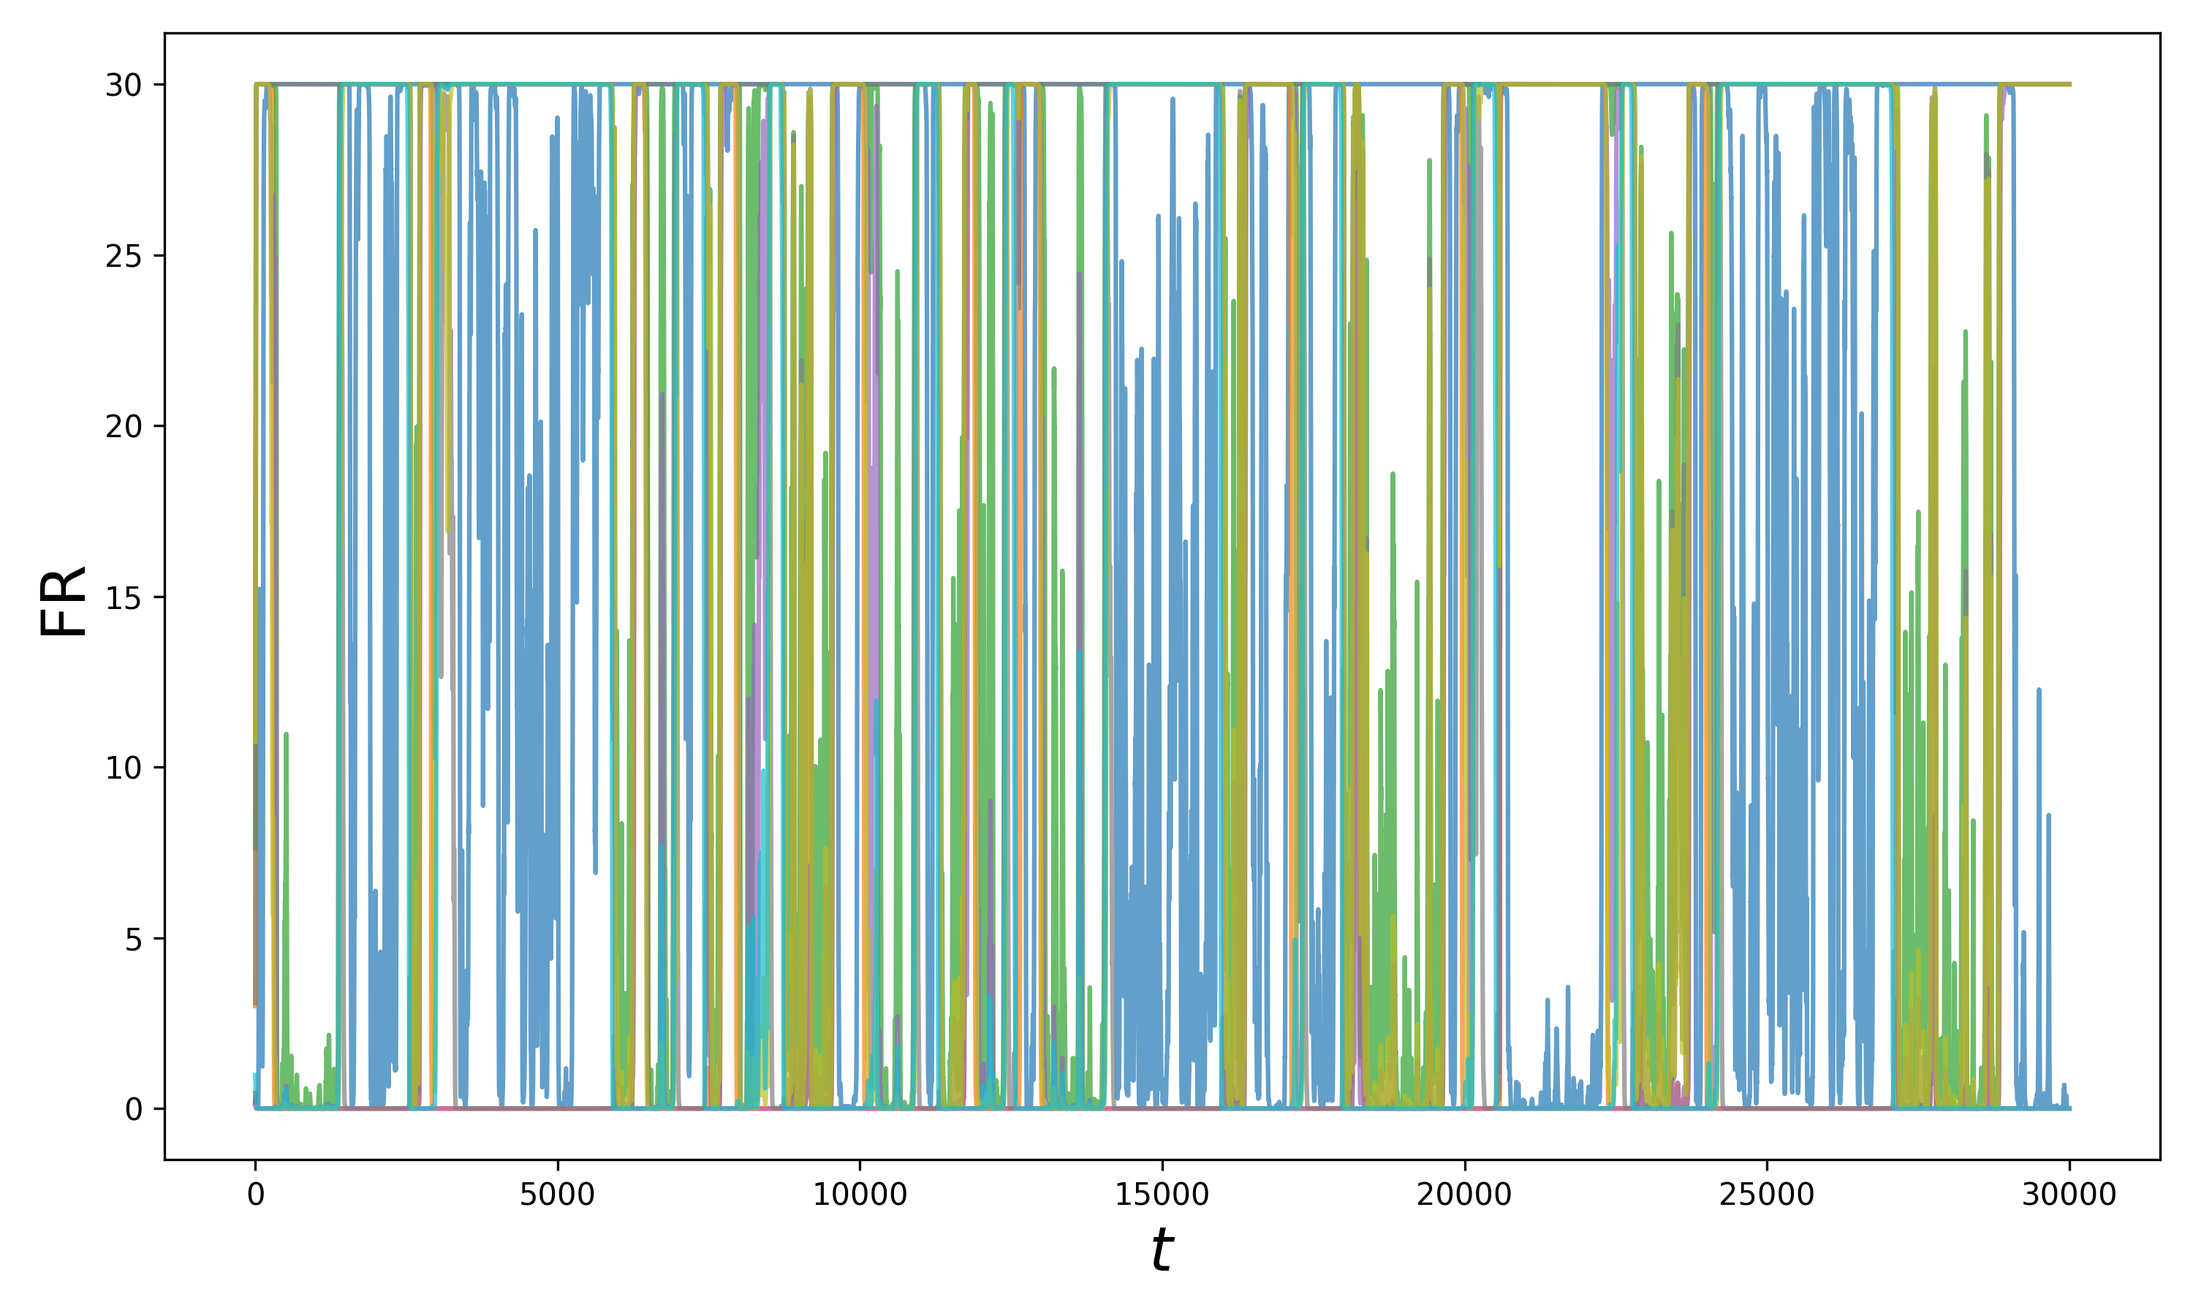
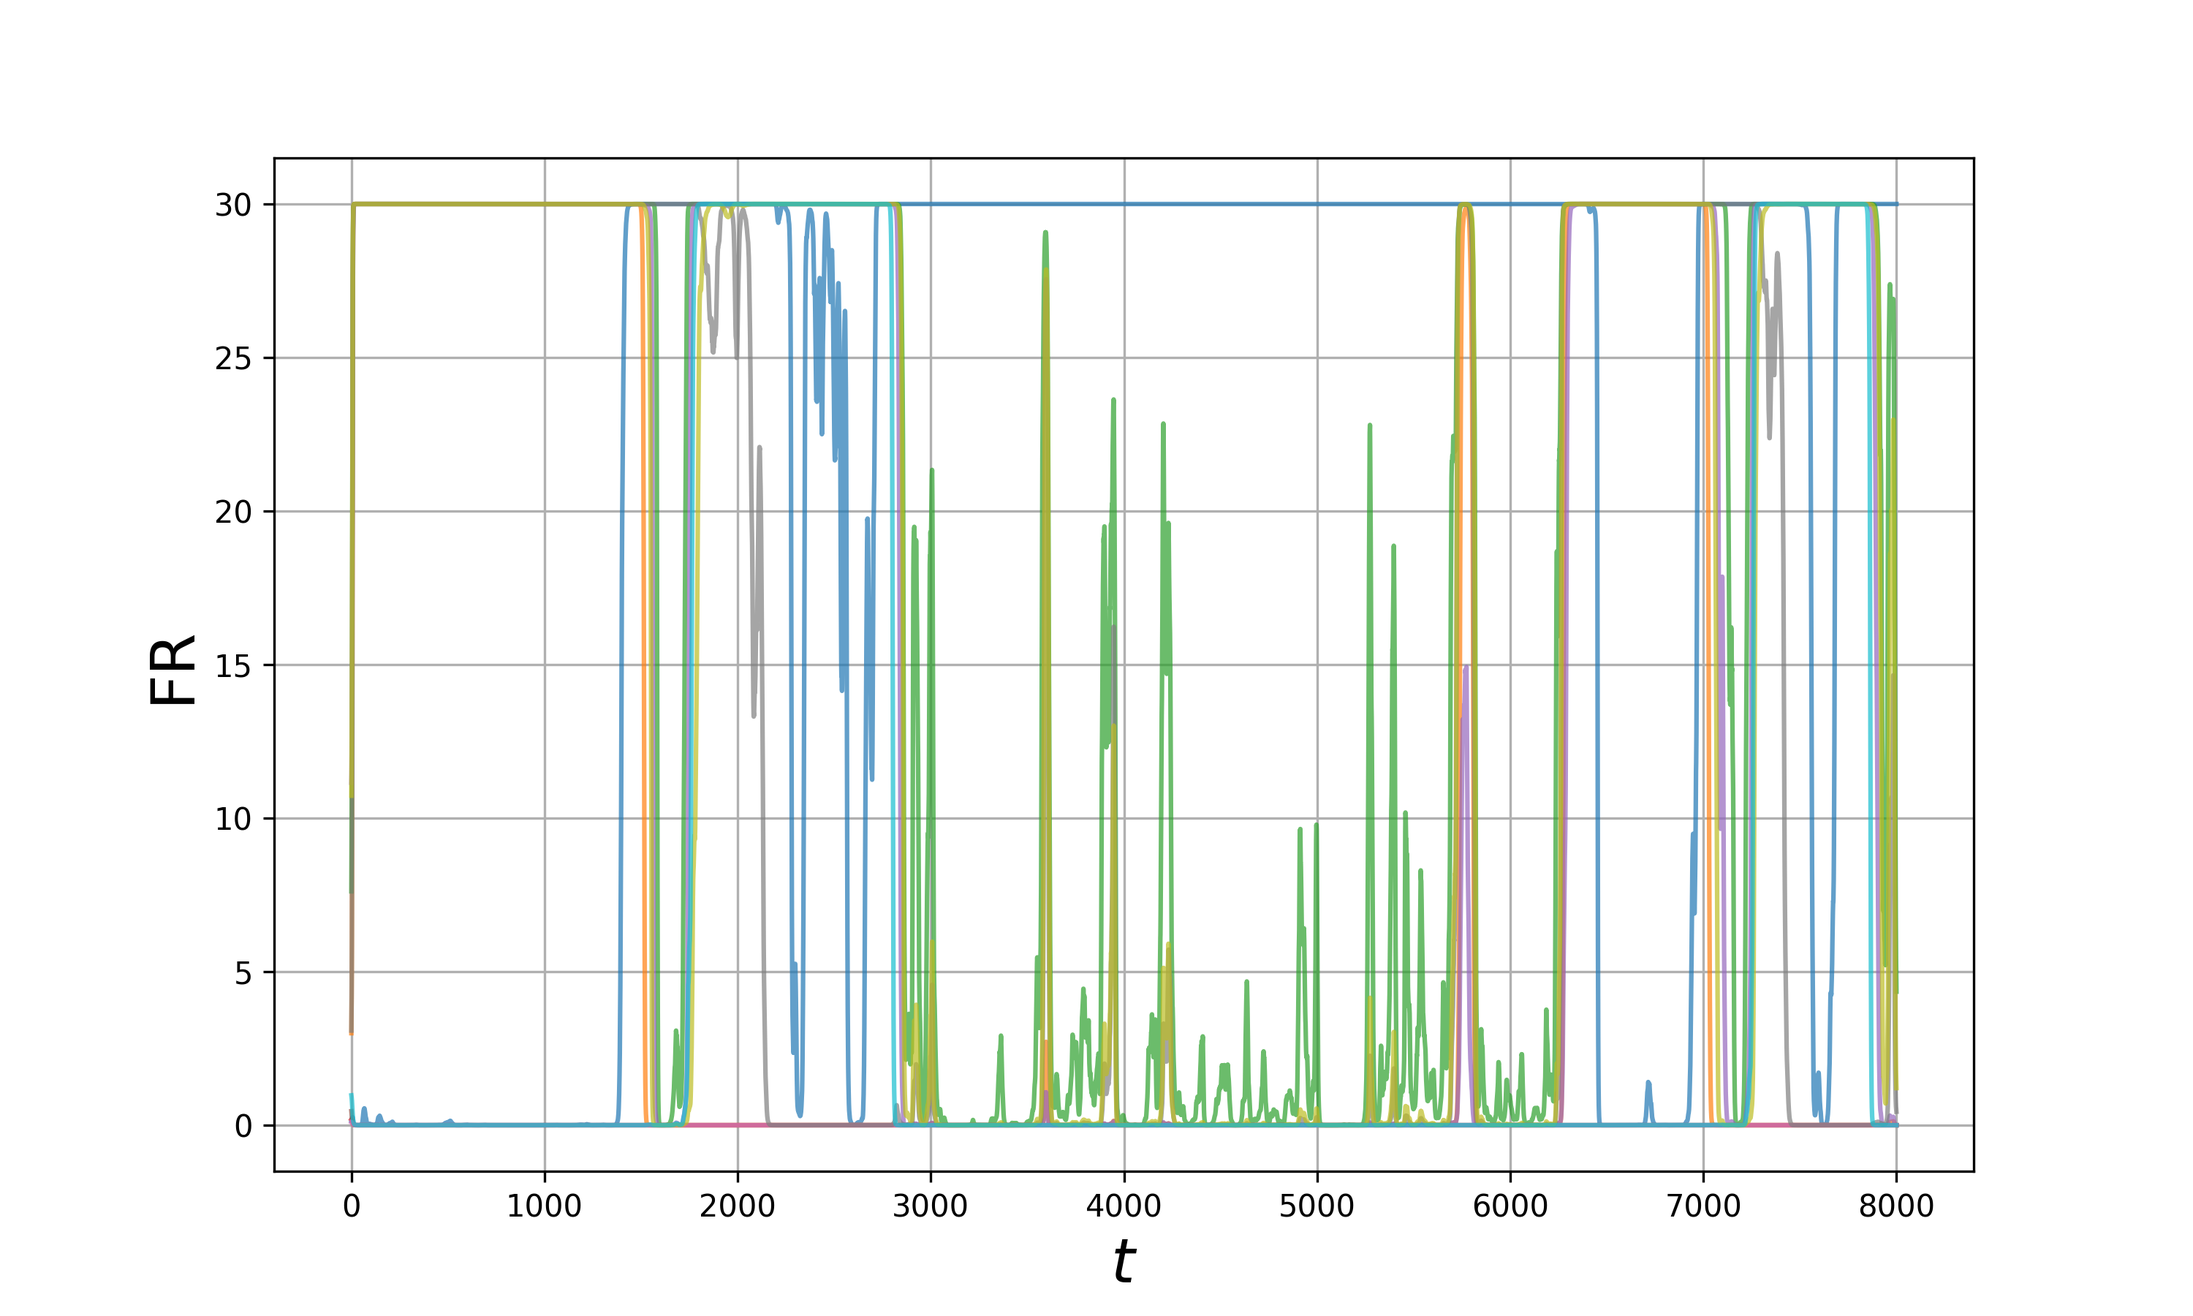
plots

diff --git a/src/simulation.py b/src/simulation.py
@@ -68,6 +68,7 @@ def simulation():
     plot_heatmap,
     single_dir_name,
     verbose,
+    ou_threshold,
 
     # Seed for reproducibility
     seed
@@ -464,154 +465,145 @@ def simulation():
 
     # Create complete 2x2 figure AND individual plots
     logger.info(f"\nCreating dynamics figure and individual plots...")
-    
-    # Create 2x2 subplot figure
-    fig, axs = plt.subplots(2, 2, figsize=(15, 10))
-    
-    # 1. Neural Currents (top-left)
-    n_plot = min(n_display, N)
-    ax = axs[0, 0]
+
+    figs = {}
+    titles = ['neural_currents', 'firing_rates', 'ou_process', 'pattern_overlaps']
+
+    # =====================================
+    # 1. Neural Currents
+    # =====================================
+    logger.info("Plotting neural currents...")
+    n_plot = min(n_display, u.shape[1])
+    fig, ax = plt.subplots(figsize=(10, 6))
     for i in range(n_plot):
-        ax.plot(t, u[:, i], alpha=0.7, label=f'u_{i+1}')
-    ax.set_xlabel('$t$', fontsize = 20)
-    ax.set_ylabel('$u_i$', fontsize = 20)
-    # ax.set_title(f'Neural Currents $u_i$ (first {n_plot} neurons)')
+        ax.plot(t, u[:, i], alpha=0.7, label=f'$u_{{{i+1}}}$')
+    ax.set_xlabel('$t$', fontsize=20)
+    ax.set_ylabel('$u_i$', fontsize=20)
     ax.grid(True)
     if n_plot <= 5:
-        ax.legend()
+        ax.legend(fontsize=16)
+    figs[titles[0]] = (fig, ax)
+    path = os.path.join(output_dir, f"{titles[0]}.png")
+    fig.savefig(path, dpi=300)
+    plt.close(fig)
+    logger.info(f"Saved {titles[0]} → {path}")
 
-    # 2. Firing Rates (top-right)
-    ax = axs[0, 1]
+    # =====================================
+    # 2. Firing Rates
+    # =====================================
+    logger.info("Plotting firing rates...")
+    fig, ax = plt.subplots(figsize=(10, 6))
     for i in range(n_plot):
-        ax.plot(t, phi_u[:, i], alpha=0.7, label=f'φ(u_{i+1})')
-    ax.set_xlabel('$t$', fontsize = 20)
-    ax.set_ylabel('FR', fontsize = 20)
-    # ax.set_title(f'Firing Rates φ($u_i$) (first {n_plot} neurons)')
+        ax.plot(t, phi_u[:, i], alpha=0.7, label=f'$\\phi(u_{{{i+1}}})$')
+    ax.set_xlabel('$t$', fontsize=20)
+    ax.set_ylabel('FR', fontsize=20)
     ax.grid(True)
     if n_plot <= 5:
-        ax.legend()
+        ax.legend(fontsize=16)
+    figs[titles[1]] = (fig, ax)
+    path = os.path.join(output_dir, f"{titles[1]}.png")
+    fig.savefig(path, dpi=300)
+    plt.close(fig)
+    logger.info(f"Saved {titles[1]} → {path}")
 
-    # 3. OU Process (bottom-right)
-    ax = axs[1, 0]
+    # =====================================
+    # 3. OU Process
+    # =====================================
+    logger.info("Plotting OU process...")
+    fig, ax = plt.subplots(figsize=(10, 6))
     try:
         if zeta_array.size == 1:
-            # Constant zeta case
             zeta_val = float(zeta_array.item())
             ax.axhline(y=zeta_val, color='r', linestyle='-', linewidth=2)
             ax.set_ylim([zeta_val - 0.1, zeta_val + 0.1])
-            ax.set_title(f'Control Signal ζ(t) = {zeta_val:.2f} (constant)')
+            legend_label = f'$\\zeta(t)={zeta_val:.2f}$ (constant)'
         else:
-            # Time-varying zeta case with OU parameters in legend
             if use_ou and ou_params is not None:
-                # Include OU parameters in legend
                 tau_zeta_val = ou_params.get('tau_zeta', tau_zeta)
                 zeta_bar_val = ou_params.get('zeta_bar', zeta_bar)
                 sigma_zeta_val = ou_params.get('sigma_zeta', sigma_zeta)
                 legend_label = f'$τ_ζ$={tau_zeta_val:.2f}, $\\bar{{ζ}}$={zeta_bar_val:.2f}, $σ_ζ$={sigma_zeta_val:.2f}'
-                # set up an array with spikes of the OU process over a threshold (2.0)
-                spikes = np.where(zeta_array > 2.0)[0]
-                # ax.set_title('Ornstein-Uhlenbeck Control Signal ζ(t)')
             else:
-                legend_label = 'ζ(t)'
-                # ax.set_title('Control Signal ζ(t)')
-            # plot a line at 2
-            ax.axhline(y=2.0, color='gray', alpha=0.5)
+                legend_label = '$\\zeta(t)$'
             ax.plot(t, zeta_array, color='k', linewidth=1.5, label=legend_label)
-            ax.legend(fontsize = 18)
-
-        ax.set_xlabel('$t$', fontsize = 20)
-        ax.set_ylabel('$\\zeta(t)$', fontsize = 20)
+            ax.legend(fontsize=16)
+        ax.set_xlabel('$t$', fontsize=20)
+        ax.set_ylabel('$\\zeta(t)$', fontsize=20)
         ax.grid(True)
+        figs[titles[2]] = (fig, ax)
+        path = os.path.join(output_dir, f"{titles[2]}.png")
+        fig.savefig(path, dpi=300)
+        plt.close(fig)
+        logger.info(f"Saved {titles[2]} → {path}")
     except Exception as e:
-        logger.error(f"Warning: Could not create ζ(t) plot - {e}")
-        ax.text(0.5, 0.5, f'OU Process Error: {e}', ha='center', va='center', transform=ax.transAxes)
-        ax.set_title('OU Process')
-    
-    # 4. Pattern Overlaps (bottom-left)
-    ax = axs[1, 1]
-    # plot spikes if OU process had spikes
-    if spikes.size > 0:
-        for spike_time in t[spikes]:
-            ax.axvline(x=spike_time, color='gray', linestyle='--', alpha=0.3)
-    # plot a line at 0.8
-    ax.axhline(y=0.8, color='gray', alpha=0.5)
-    if p > 0 and overlaps is not None:
+        logger.error(f"OU plot error: {e}")
+
+    # =====================================
+    # 4. Pattern Overlaps
+    # =====================================
+    logger.info("Plotting pattern overlaps...")
+    fig, ax = plt.subplots(figsize=(10, 6))
+    # plot the times when the ou noise is above the threshold
+    if zeta_array is not None:
+        above_threshold = zeta_array > ou_threshold
+        ax.fill_between(t, -0.1, 1.1, where=above_threshold, color='lightgray', alpha=0.7, ls = 'dashed', transform=ax.get_xaxis_transform())
+    if overlaps is not None and overlaps.shape[1] > 0:
+        p = overlaps.shape[1]
         for i in range(p):
             ax.plot(t, overlaps[:, i], label=f'P {i+1}', linewidth=2)
-        ax.set_xlabel('$t$', fontsize = 20)
-        ax.set_ylabel('Overlaps', fontsize = 20)
-        # ax.set_title(f'Memory Pattern Overlaps (A={A_S}, seed = {seed})')
+        ax.axhline(y=0.8, color='gray', alpha=0.5)
+        ax.set_xlabel('$t$', fontsize=20)
+        ax.set_ylabel('Overlaps', fontsize=20)
         ax.grid(False)
-        ax.legend()
+        ax.legend(fontsize=16)
     else:
         ax.text(0.5, 0.5, 'No patterns to display', ha='center', va='center', transform=ax.transAxes)
-        ax.set_title('Pattern Overlaps')
-    
-    plt.tight_layout()
-    
-    # Save complete 2x2 figure
-    complete_fig_path = os.path.join(output_dir, "complete_simulation_results.png")
-    plt.savefig(complete_fig_path, dpi=300)
-    
-    # Extract and save individual plots from the 2x2 figure
-    titles = ['neural_currents', 'firing_rates', 'ou_process', 'pattern_overlaps']
-    
-    for i, ax in enumerate(axs.flat):
-        fig_single, ax_single = plt.subplots(figsize=(10, 6))
-        
-        # Copy all lines from original subplot
-        for line in ax.get_lines():
-            ax_single.plot(line.get_xdata(), line.get_ydata(), 
-                          label=line.get_label(), color=line.get_color(),
-                          alpha=line.get_alpha() if line.get_alpha() is not None else 1.0, 
-                          linewidth=line.get_linewidth())
-        
-        # Copy title, labels, and legend
-        # ax_single.set_title(ax.get_title())
-        ax_single.set_xlabel(ax.get_xlabel(), fontsize = 20)
-        ax_single.set_ylabel(ax.get_ylabel(), fontsize = 20)
-        ax_single.grid(False)
-        
-        # Add legend if original had one
-        if ax.get_legend() is not None:
-            ax_single.legend(fontsize = 18)
-        
-        # Copy text annotations if any
-        for text in ax.texts:
-            ax_single.text(text.get_position()[0], text.get_position()[1], 
-                          text.get_text(), ha=text.get_ha(), va=text.get_va(),
-                          transform=ax_single.transAxes if text.get_transform() == ax.transAxes else ax_single.transData)
-        
-        # Copy axis limits for proper scaling
-        ax_single.set_xlim(ax.get_xlim())
-        ax_single.set_ylim(ax.get_ylim())
-        
-        plt.tight_layout()
-        
-        # Save individual plot
-        fig_single.savefig(os.path.join(output_dir, f"{titles[i]}.png"), dpi=300)
-        plt.close(fig_single)  # Close to free memory
-        
-        if plot_heatmap:
-            # Plot the firing rates of ALL neurons as a heatmap in another figure
-            plt.figure(figsize=(10, 6))
-            plt.imshow(phi_u.T, aspect='auto', cmap='viridis', origin='lower')
-            plt.colorbar(label='FR')
-            plt.title(f'Firing Rates of all {N} neurons')
-            plt.xlabel('Time')
-            plt.ylabel('Neuron Index')
-            plt.tight_layout()
-            plt.savefig(os.path.join(output_dir, "firing_rates_heatmap.png"), dpi=300) # Save heatmap
-            plt.close()
-        else: None
+    figs[titles[3]] = (fig, ax)
+    path = os.path.join(output_dir, f"{titles[3]}.png")
+    fig.savefig(path, dpi=300)
+    plt.close(fig)
+    logger.info(f"Saved {titles[3]} → {path}")
 
-    logger.info(f"Saved complete figure: complete_simulation_results.png")
-    logger.info(f"Saved individual plots: {', '.join([f'{title}.png' for title in titles])}")
-    if show_sim_plots:
-        plt.show()
-    else:
-        logger.info("Plots not displayed, only saved to files.")
-    plt.close('all')  # Close all figures to free memory
+    # =====================================
+    # Optional Heatmap
+    # =====================================
+    if plot_heatmap == True:
+        logger.info("Plotting firing rate heatmap...")
+        fig, ax = plt.subplots(figsize=(10, 6))
+        im = ax.imshow(phi_u.T, aspect='auto', cmap='viridis', origin='lower')
+        plt.colorbar(im, ax=ax, label='FR')
+        ax.set_xlabel('Time', fontsize=18)
+        ax.set_ylabel('Neuron Index', fontsize=18)
+        path = os.path.join(output_dir, "firing_rates_heatmap.png")
+        fig.savefig(path, dpi=300)
+        plt.close(fig)
+        logger.info(f"Saved firing_rates_heatmap → {path}")
+
+    # =====================================
+    # 5. Build 2x2 composite figure
+    # =====================================
+    logger.info("Building 2×2 composite summary figure...")
+    fig, axs = plt.subplots(2, 2, figsize=(15, 10))
+    for idx, key in enumerate(titles):
+        r, c = divmod(idx, 2)
+        src_fig, src_ax = figs[key]
+        ax = axs[r, c]
+        for line in src_ax.get_lines():
+            ax.plot(line.get_xdata(), line.get_ydata(),
+                    label=line.get_label(), color=line.get_color(),
+                    linewidth=line.get_linewidth(), alpha=line.get_alpha() or 1.0)
+        ax.set_xlabel(src_ax.get_xlabel())
+        ax.set_ylabel(src_ax.get_ylabel())
+        if src_ax.get_legend() is not None:
+            ax.legend(fontsize=12)
+        ax.grid(True)
+    plt.tight_layout()
+    complete_fig_path = os.path.join(output_dir, "complete_simulation_results.png")
+    fig.savefig(complete_fig_path, dpi=300)
+    plt.close(fig)
+    logger.info(f"Saved composite figure → {complete_fig_path}")
+
+    plt.close('all')  # making sure to close all figures to free memory
     time_end = time.time()
     elapsed_time = time_end - time_start
     logger.info(f"\nTotal execution time: {elapsed_time:.2f} seconds")

diff --git a/src/parameters.py b/src/parameters.py
@@ -17,7 +17,7 @@ N = 1500               # Number of neurons (increased for Numba testing)
 p = 4                 # Number of patterns for symmetric component
 q = 4                  # Number of patterns for asymmetric component (q <= p)
 c = 0.1                # Connection probability (0-1) for Erdős-Rényi model
-A_S = 3.0              # Amplitude parameter for symmetric component (4.0 for p = 5, q = 3)
+A_S = 4.0              # Amplitude parameter for symmetric component (4.0 for p = 5, q = 3)
 
 # f and g function (step functions) parameters for connectivity generation
 f_q = .7              # Step value for f step function (0.7)
@@ -32,9 +32,9 @@ g_x = f_x              # Step threshold for g step function (3.0)
 # =============================================================================
 
 # φ (phi) function (sigmoid) parameters - used for both connectivity and dynamics
-phi_beta = 1.5                 # Steepness parameter for sigmoid function
+phi_beta = 1.5                 # Steepness parameter for sigmoid function (using 1.5)
 phi_r_m = 30.                  # Maximum firing rate for sigmoid function (using 30.0)
-phi_x_r = 2.0                  # Threshold parameter for sigmoid function
+phi_x_r = 2.0                  # Threshold parameter for sigmoid function (using 2.0)
 
 # Pattern distribution parameters
 pattern_mean = 0.0      # Mean of the Gaussian distribution for memory patterns
@@ -53,7 +53,7 @@ apply_er_to_asymmetric = False  # Apply Erdős-Rényi to asymmetric component
 # Time and integration parameters
 tau = 20.0              # Time constant for neural dynamics
 t_start = 0.0           # Simulation start time
-t_end = 30000.0           # Simulation end time
+t_end = 8000.0           # Simulation end time
 dt = 0.2                # Time step for simulation output (increased for efficiency)
 
 # Performance optimization
@@ -71,7 +71,7 @@ model_type = "recanatesi"   # Dynamics model: "recanatesi" or "brunel"
 
 # Ornstein-Uhlenbeck process parameters for ζ(t)
 use_ou = True          # Whether to use Ornstein-Uhlenbeck process for ζ(t)
-tau_zeta = 10.0          # OU time constant
+tau_zeta = 20.0          # OU time constant
 zeta_bar = 0.65          # OU mean value (0.6 for p = 5, q = 3)
 sigma_zeta = 0.65        # OU noise intensity (0.3 for p = 5, q = 3)
 constant_zeta = 1.     # Constant ζ value when OU is not used
@@ -86,6 +86,7 @@ show_sim_plots = False  # Whether to show individual plots for each variable
 plot_connectivity_matrices = False,
 plot_heatmap= False,
 verbose = False
+ou_threshold = 2.  # Threshold for highlighting OU noise in plots
 single_dir_name = "simulation_results_new_half"
 multiple_dir_name = "multiple_simulations_new"
 

diff --git a/src/correlation.py b/src/correlation.py
@@ -68,17 +68,18 @@ def compute_cross_correlation(firing_file, ou_file, max_lag_steps):
 
 def cross_correlation_multi_run(firing_dir, ou_dir, max_lag_ms=1000):
     """Compute average cross-correlation across runs."""
-    files = sorted([f for f in os.listdir(firing_dir) if f.endswith(".npy")])
+    files_firing = sorted([f for f in os.listdir(firing_dir) if f.endswith(".npy")])
+    files_ou = sorted([f for f in os.listdir(ou_dir) if f.endswith(".npy")])
     lag_steps = int(max_lag_ms / (dt * 1000))
     lags = np.arange(-lag_steps, lag_steps + 1) * dt
 
     corr_list = []
 
-    for fname in files:
-        firing_file = os.path.join(firing_dir, fname)
-        ou_file = os.path.join(ou_dir, fname)
+    for fname_firing, fname_ou in zip(files_firing, files_ou):
+        firing_file = os.path.join(firing_dir, fname_firing)
+        ou_file = os.path.join(ou_dir, fname_ou)
         if not os.path.exists(ou_file):
-            print(f"[!] Missing OU file for {fname}")
+            print(f"[!] Missing OU file for {fname_ou}, skipping...")
             continue
 
         corr = compute_cross_correlation(firing_file, ou_file, lag_steps)
@@ -96,7 +97,7 @@ def cross_correlation_multi_run(firing_dir, ou_dir, max_lag_ms=1000):
 # Plot
 # ----------------------------
 if __name__ == "__main__":
-    max_lag_ms = 1000  # adjust window for cross-correlation
+    max_lag_ms = 2000  # adjust window for cross-correlation
     lags, corr_mean, corr_std = cross_correlation_multi_run(firing_dir, ou_dir, max_lag_ms=max_lag_ms)
 
     plt.figure(figsize=(8, 4))

diff --git a/src/modules/connectivity.py b/src/modules/connectivity.py
@@ -431,18 +431,30 @@ def plot_matrix(matrix, title, cmap='RdBu_r', ax=None):
     else:
         fig = None
 
-    # Find the maximum absolute value for symmetric color scaling
-    vmax = np.max(np.abs(matrix))
+    # Replace NaN or inf with zeros to avoid plotting issues
+    if not np.isfinite(matrix).all():
+        matrix = np.nan_to_num(matrix, nan=0.0, posinf=0.0, neginf=0.0)
+
+    # Compute symmetric normalization range
+    vmax = float(np.max(np.abs(matrix)))
+    if vmax <= 0 or not np.isfinite(vmax):
+        vmax = 1e-9  # Prevent TwoSlopeNorm from crashing
+
     norm = TwoSlopeNorm(vmin=-vmax, vcenter=0, vmax=vmax)
 
     # Create the heatmap
-    sns.heatmap(matrix,
-                cmap=cmap,
-                norm=norm,
-                ax=ax,
-                cbar_kws={"label": "Weight Value"})
+    sns.heatmap(
+        matrix,
+        cmap=cmap,
+        norm=norm,
+        ax=ax,
+        cbar_kws={"label": "Weight Value"},
+        square=True,
+        xticklabels=False,
+        yticklabels=False
+    )
 
-    ax.set_title(title)
+    ax.set_title(title, fontsize=14)
     ax.set_xlabel("Neuron j")
     ax.set_ylabel("Neuron i")
 
